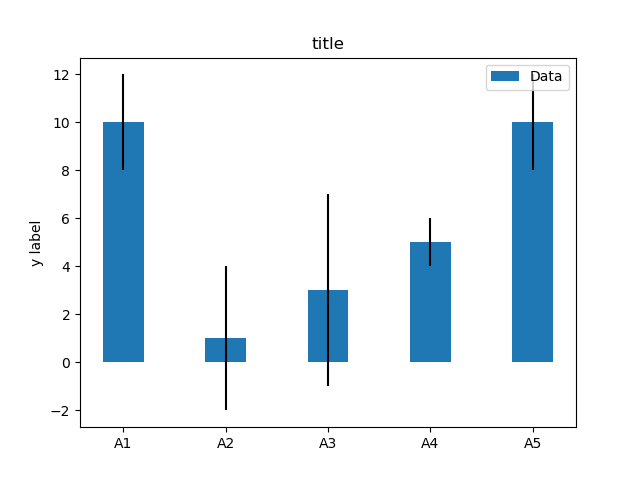
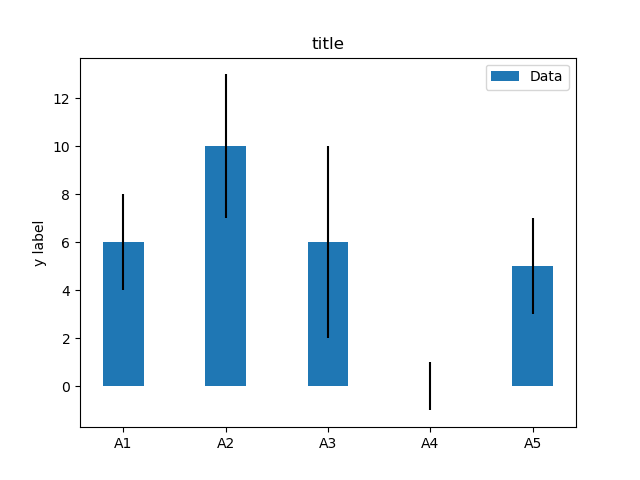
first commit

diff --git a/example.py b/example.py
@@ -2,7 +2,7 @@ import numpy as np
 import matplotlib.pyplot as plt
 
 labels = ['A1', 'A2', 'A3', 'A4', 'A5']
-m_means = [10,1,3,5,10]
+m_means = [6,10,6,0,5]
 m_std = [2, 3, 4, 1, 2]
 width = 0.40       # the width of the bars
 

diff --git a/README.md b/README.md
@@ -1,4 +1,4 @@
-# Matplotlib no 54 
+# Matplotlib no 55 
 
 python example
 
